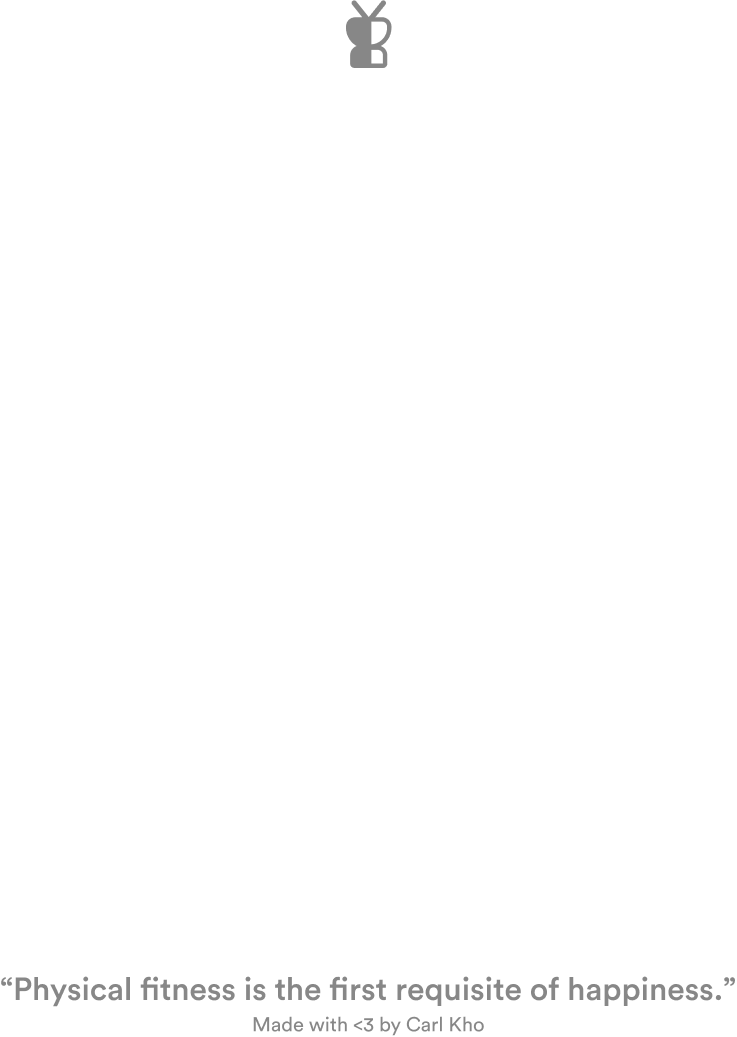
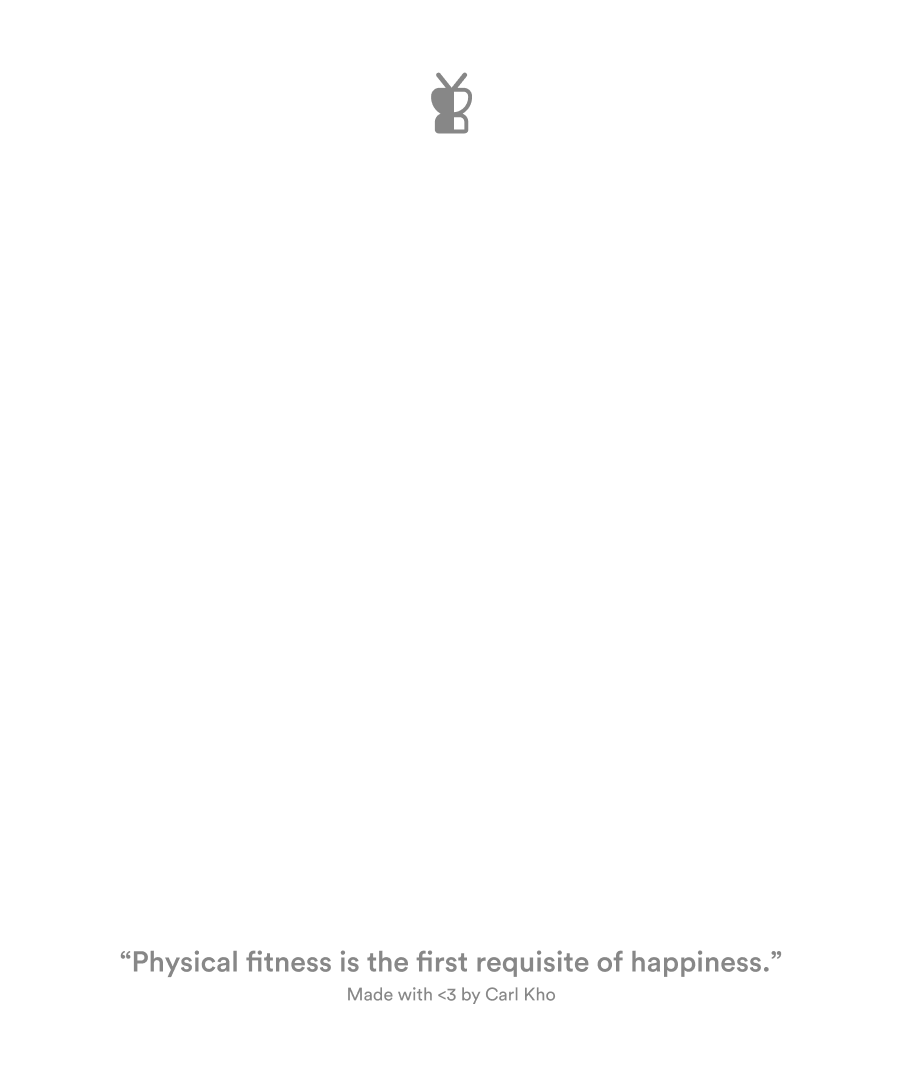
For KUI_21 + GIF Update

Changed region(s): [[0.0, 0.864, 0.9674, 1.0], [0.4681, 0.0, 0.5305, 0.1234]]

diff --git a/styles.css b/styles.css
@@ -11,10 +11,9 @@ body {
 
 #cover-image {
     width: 100%;
-    height: 100%;
+    height: 105%;
+	margin-top: -2%;
     object-fit: contain;
-    animation-name: fadeUp;
-    animation-duration: 0.5s;
     }
 
 @keyframes fadeUp {
@@ -30,13 +29,13 @@ to {
 }
 
 /* Website Elements  */
-#textPrompt {
+#CTAText {
 	font-family: 'Manrope', sans-serif;
 	color:#ffffff;
 	padding: 10px;
 	font-size: 2em;
 	position: absolute;
-	top: 37%;
+	top: 38%;
 	background-color: #292929;
 	left: 39%;
 }

diff --git a/newTab.html b/newTab.html
@@ -15,13 +15,17 @@
 
 <body>
   <div id="main"></div>
-  <div id="gif-wrap"></div>
-  
-  <b>
-    <p id="textPrompt">//Stay healthy. <span id="tagLine"></span>.</p>
-  </b>
-</body>
-<script src="script.js" type="text/javascript"></script>
 
+  <div id="CTADiv">
+    <b>
+      <p id="CTAText">//Stay healthy. <span id="tagLine"></span>.</p>
+    </b>
+  </div>
+
+  <div id="gif-wrap"></div>
+
+</body>
+
+<script src="script.js" type="text/javascript"></script>
 
 </html>
